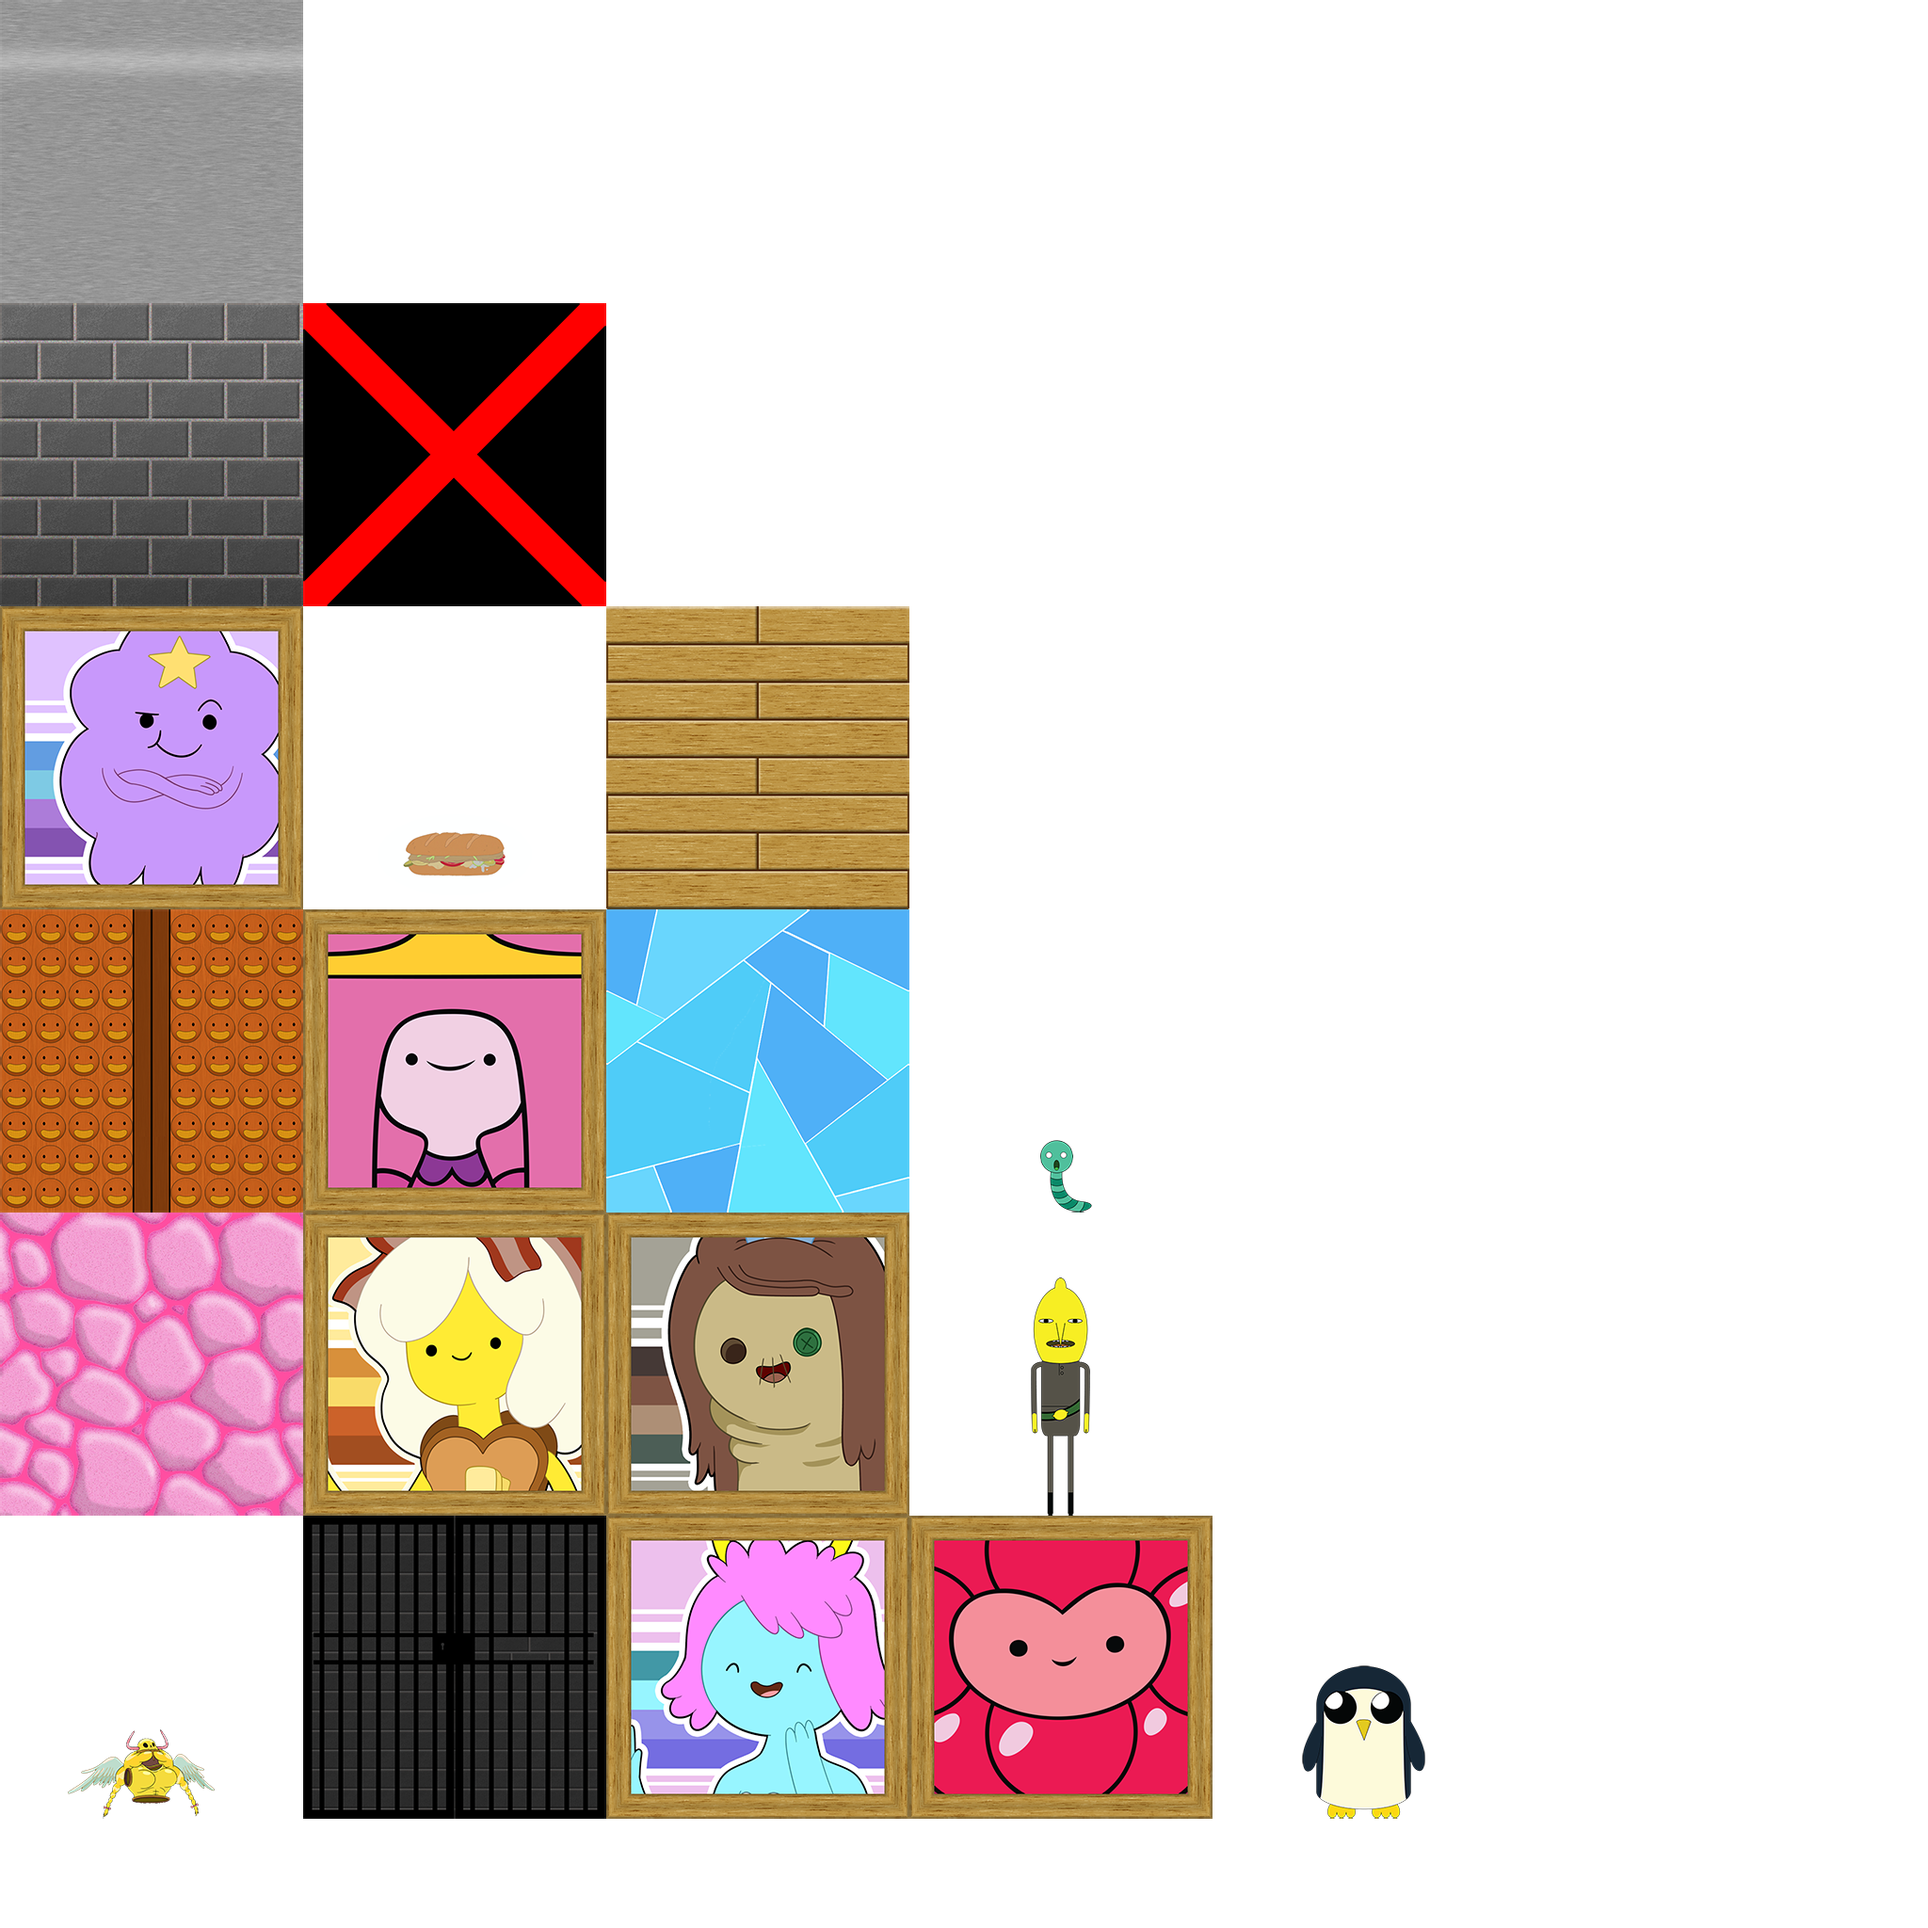
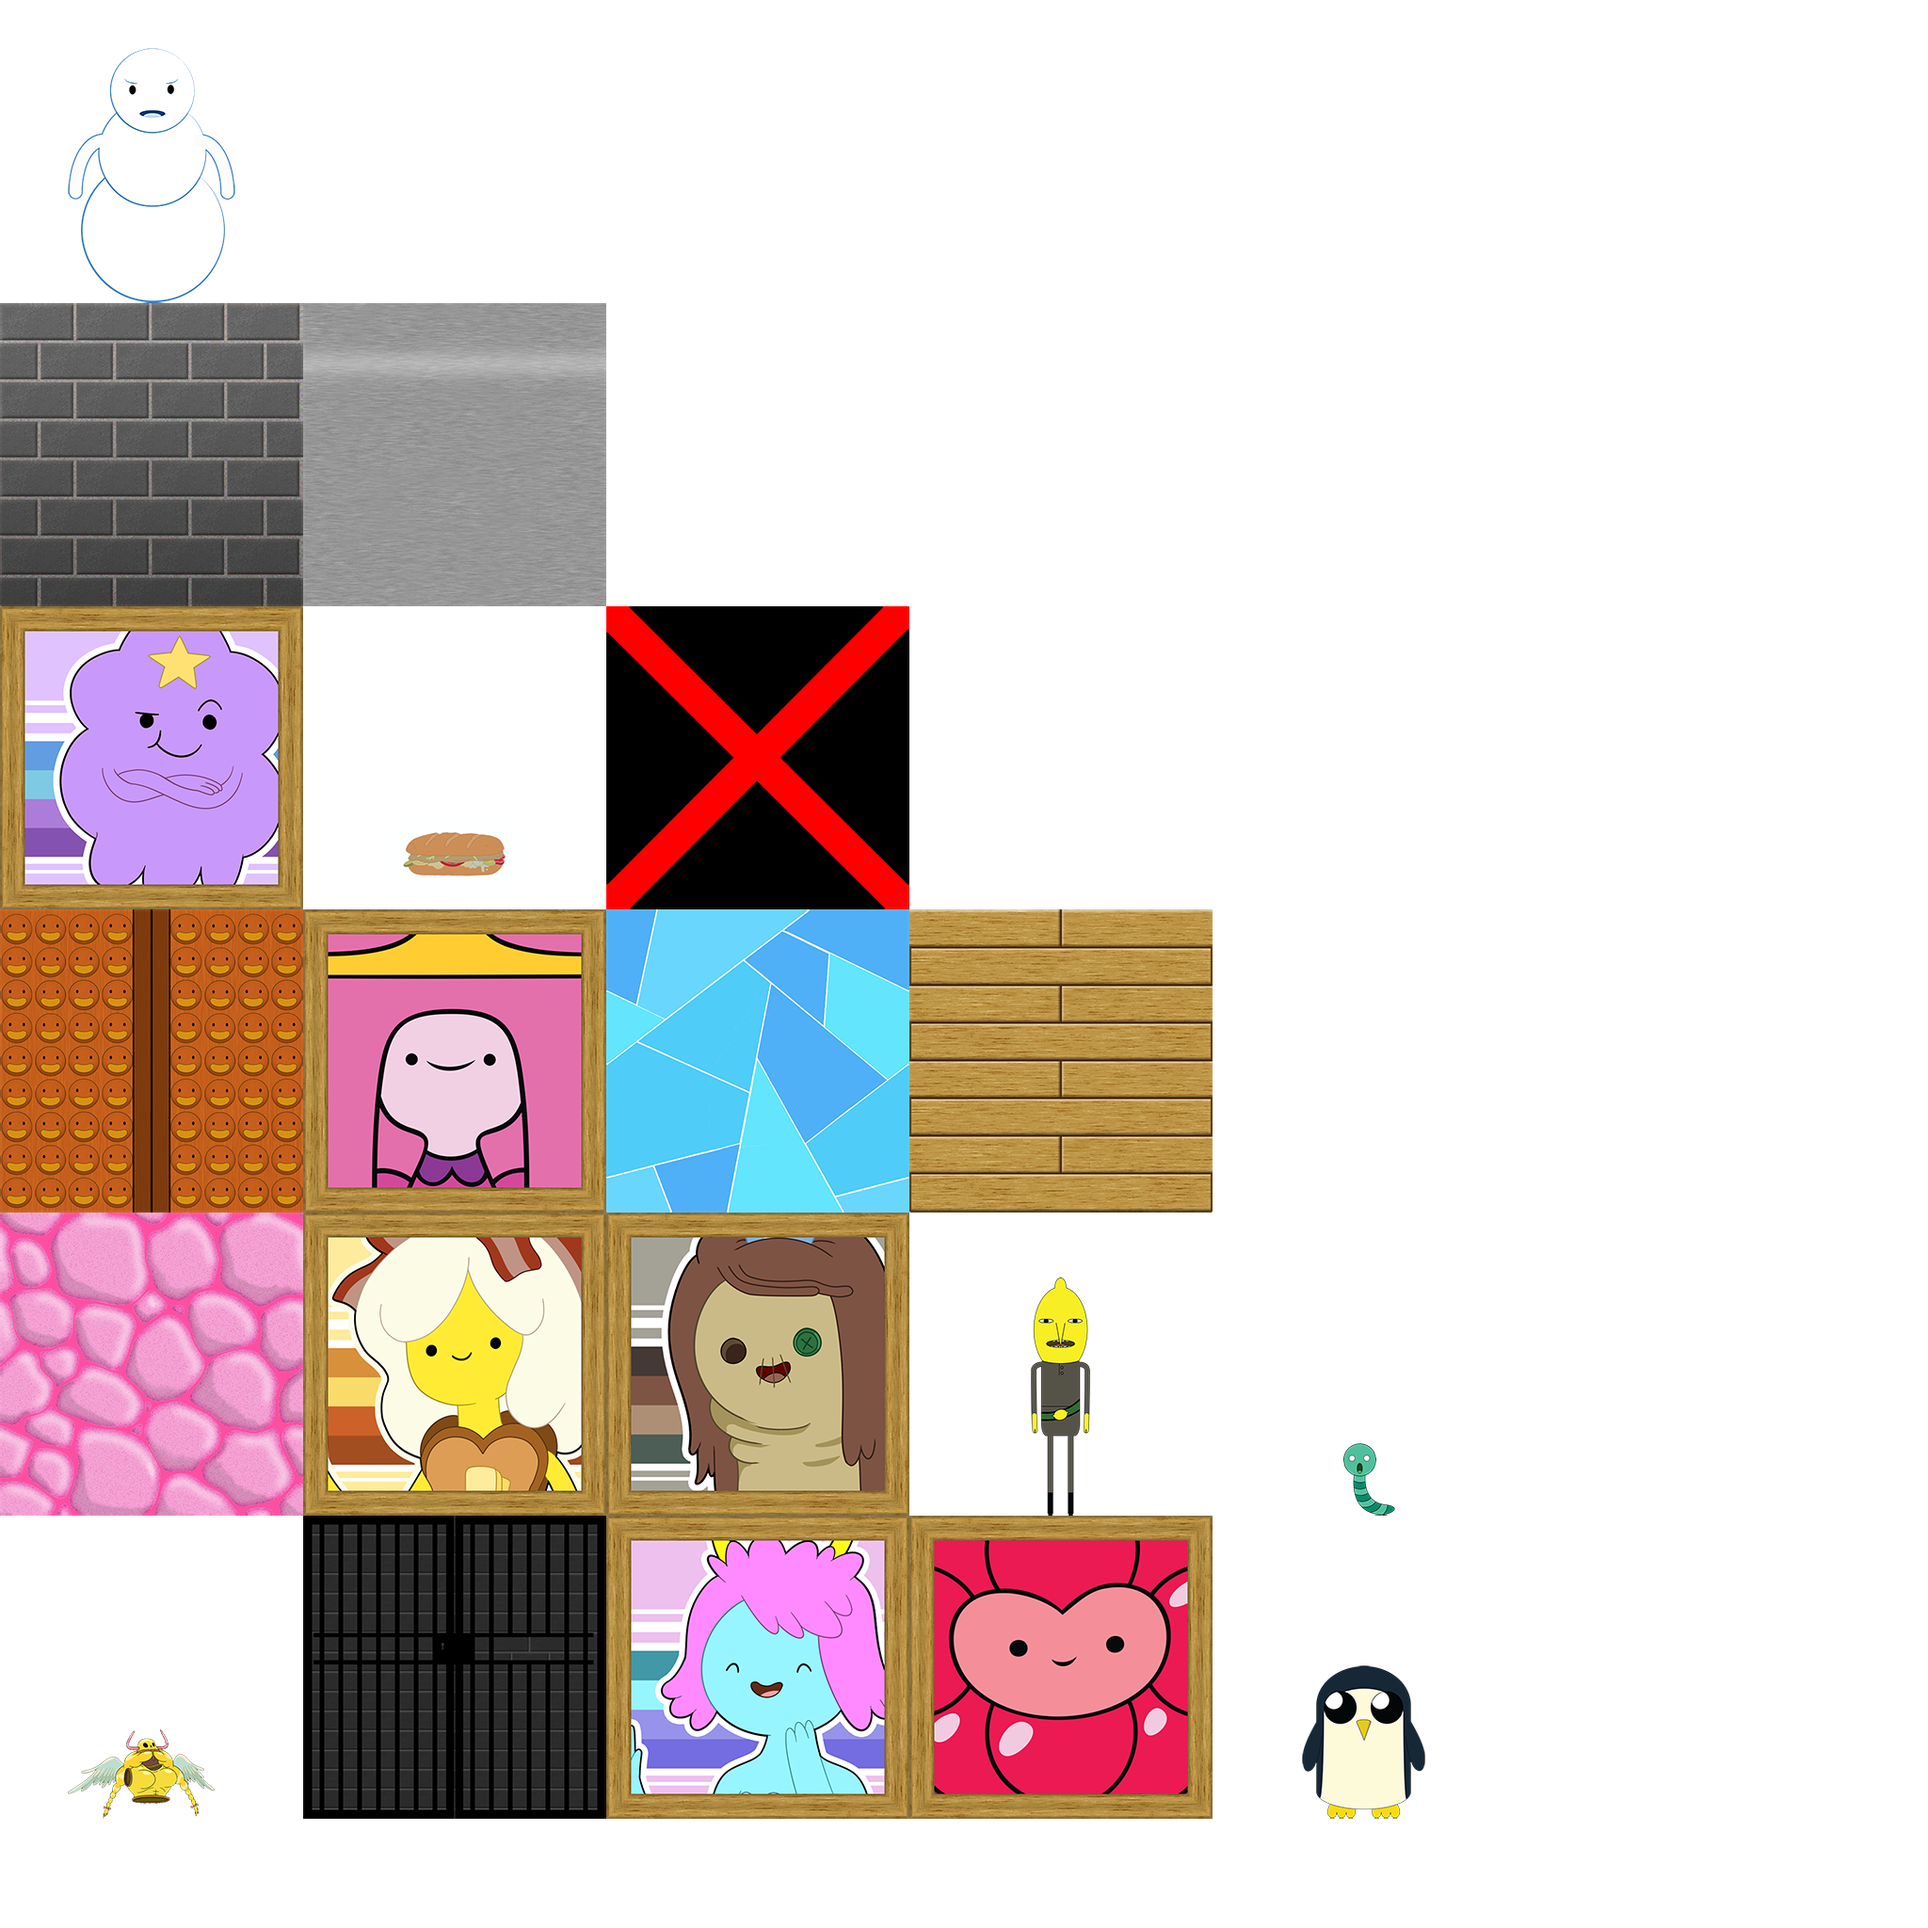
Updated guard/dog names and fixed the atlas and texture that was incomplete

diff --git a/deco2800.arcade.wl6/src/main/java/deco2800/arcade/wl6/DoodadList.java b/deco2800.arcade.wl6/src/main/java/deco2800/arcade/wl6/DoodadList.java
@@ -340,28 +340,28 @@ public class DoodadList {
                     new DoodadInfo(),
 
                     //108: Guard 1 (Standing)
-                    new DoodadInfo(true, "guard", 0, 0, 0, 1, EnemyType.GUARD, 0, DIRS.UP),  // FIXME Not complete
+                    new DoodadInfo(true, "snowman", 0, 0, 0, 1, EnemyType.GUARD, 0, DIRS.UP),  // FIXME Not complete
 
                     //109: Guard 1 (Standing)
-                    new DoodadInfo(true, "guard", 0, 0, 0, 1, EnemyType.GUARD, 0, DIRS.UP),  // FIXME Not complete
+                    new DoodadInfo(true, "snowman", 0, 0, 0, 1, EnemyType.GUARD, 0, DIRS.UP),  // FIXME Not complete
 
                     //110: Guard 1 (Standing)
-                    new DoodadInfo(true, "guard", 0, 0, 0, 1, EnemyType.GUARD, 0, DIRS.UP),  // FIXME Not complete
+                    new DoodadInfo(true, "snowman", 0, 0, 0, 1, EnemyType.GUARD, 0, DIRS.UP),  // FIXME Not complete
 
                     //111: Guard 1 (Standing)
-                    new DoodadInfo(true, "guard", 0, 0, 0, 1, EnemyType.GUARD, 0, DIRS.UP),  // FIXME Not complete
+                    new DoodadInfo(true, "snowman", 0, 0, 0, 1, EnemyType.GUARD, 0, DIRS.UP),  // FIXME Not complete
 
                     //112: Guard 1 (Moving)
-                    new DoodadInfo(true, "guard", 0, 0, 0, 1, EnemyType.GUARD, 0, DIRS.UP),  // FIXME Not complete
+                    new DoodadInfo(true, "snowman", 0, 0, 0, 1, EnemyType.GUARD, 0, DIRS.UP),  // FIXME Not complete
 
                     //113: Guard 1 (Moving)
-                    new DoodadInfo(true, "guard", 0, 0, 0, 1, EnemyType.GUARD, 0, DIRS.UP),  // FIXME Not complete
+                    new DoodadInfo(true, "snowman", 0, 0, 0, 1, EnemyType.GUARD, 0, DIRS.UP),  // FIXME Not complete
 
                     //114: Guard 1 (Moving)
-                    new DoodadInfo(true, "guard", 0, 0, 0, 1, EnemyType.GUARD, 0, DIRS.UP),  // FIXME Not complete
+                    new DoodadInfo(true, "snowman", 0, 0, 0, 1, EnemyType.GUARD, 0, DIRS.UP),  // FIXME Not complete
 
                     //115: Guard 1 (Moving)
-                    new DoodadInfo(true, "guard", 0, 0, 0, 1, EnemyType.GUARD, 0, DIRS.UP),  // FIXME Not complete
+                    new DoodadInfo(true, "snowman", 0, 0, 0, 1, EnemyType.GUARD, 0, DIRS.UP),  // FIXME Not complete
 
                     //116: nothing
                     new DoodadInfo(),
@@ -430,16 +430,16 @@ public class DoodadList {
                     new DoodadInfo(),
 
                     //138: Dog 1 (Moving)
-                    new DoodadInfo(true, "dog", 0, 0, 0, 1, EnemyType.DOG, 0, DIRS.UP),  // FIXME Not complete
+                    new DoodadInfo(true, "penguin", 0, 0, 0, 1, EnemyType.DOG, 0, DIRS.UP),  // FIXME Not complete
 
                     //139: Dog 1 (Moving)
-                    new DoodadInfo(true, "dog", 0, 0, 0, 1, EnemyType.DOG, 0, DIRS.UP),  // FIXME Not complete
+                    new DoodadInfo(true, "penguin", 0, 0, 0, 1, EnemyType.DOG, 0, DIRS.UP),  // FIXME Not complete
 
                     //140: Dog 1 (Moving)
-                    new DoodadInfo(true, "dog", 0, 0, 0, 1, EnemyType.DOG, 0, DIRS.UP),  // FIXME Not complete
+                    new DoodadInfo(true, "penguin", 0, 0, 0, 1, EnemyType.DOG, 0, DIRS.UP),  // FIXME Not complete
 
                     //141: Dog 1 (Moving)
-                    new DoodadInfo(true, "dog", 0, 0, 0, 1, EnemyType.DOG, 0, DIRS.UP),  // FIXME Not complete
+                    new DoodadInfo(true, "penguin", 0, 0, 0, 1, EnemyType.DOG, 0, DIRS.UP),  // FIXME Not complete
 
                     //142: nothing
                     new DoodadInfo(),
@@ -448,28 +448,28 @@ public class DoodadList {
                     new DoodadInfo(),
 
                     //144: Guard 3 (Standing)
-                    new DoodadInfo(true, "guard", 0, 0, 0, 3, EnemyType.GUARD, 0, DIRS.UP),  // FIXME Not complete
+                    new DoodadInfo(true, "snowman", 0, 0, 0, 3, EnemyType.GUARD, 0, DIRS.UP),  // FIXME Not complete
 
                     //145: Guard 3 (Standing)
-                    new DoodadInfo(true, "guard", 0, 0, 0, 3, EnemyType.GUARD, 0, DIRS.UP),  // FIXME Not complete
+                    new DoodadInfo(true, "snowman", 0, 0, 0, 3, EnemyType.GUARD, 0, DIRS.UP),  // FIXME Not complete
 
                     //146: Guard 3 (Standing)
-                    new DoodadInfo(true, "guard", 0, 0, 0, 3, EnemyType.GUARD, 0, DIRS.UP),  // FIXME Not complete
+                    new DoodadInfo(true, "snowman", 0, 0, 0, 3, EnemyType.GUARD, 0, DIRS.UP),  // FIXME Not complete
 
                     //147: Guard 3 (Standing)
-                    new DoodadInfo(true, "guard", 0, 0, 0, 3, EnemyType.GUARD, 0, DIRS.UP),  // FIXME Not complete
+                    new DoodadInfo(true, "snowman", 0, 0, 0, 3, EnemyType.GUARD, 0, DIRS.UP),  // FIXME Not complete
 
                     //148: Guard 3 (Moving)
-                    new DoodadInfo(true, "guard", 0, 0, 0, 3, EnemyType.GUARD, 0, DIRS.UP),  // FIXME Not complete
+                    new DoodadInfo(true, "snowman", 0, 0, 0, 3, EnemyType.GUARD, 0, DIRS.UP),  // FIXME Not complete
 
                     //149: Guard 3 (Moving)
-                    new DoodadInfo(true, "guard", 0, 0, 0, 3, EnemyType.GUARD, 0, DIRS.UP),  // FIXME Not complete
+                    new DoodadInfo(true, "snowman", 0, 0, 0, 3, EnemyType.GUARD, 0, DIRS.UP),  // FIXME Not complete
 
                     //150: Guard 3 (Moving)
-                    new DoodadInfo(true, "guard", 0, 0, 0, 3, EnemyType.GUARD, 0, DIRS.UP),  // FIXME Not complete
+                    new DoodadInfo(true, "snowman", 0, 0, 0, 3, EnemyType.GUARD, 0, DIRS.UP),  // FIXME Not complete
 
                     //151: Guard 3 (Moving)
-                    new DoodadInfo(true, "guard", 0, 0, 0, 3, EnemyType.GUARD, 0, DIRS.UP),  // FIXME Not complete
+                    new DoodadInfo(true, "snowman", 0, 0, 0, 3, EnemyType.GUARD, 0, DIRS.UP),  // FIXME Not complete
 
                     //152: nothing
                     new DoodadInfo(),
@@ -538,16 +538,16 @@ public class DoodadList {
                     new DoodadInfo(),
 
                     //174: Dog 3 (Moving)
-                    new DoodadInfo(true, "dog", 0, 0, 0, 3, EnemyType.GUARD, 0, DIRS.UP),  // FIXME Not complete
+                    new DoodadInfo(true, "penguin", 0, 0, 0, 3, EnemyType.GUARD, 0, DIRS.UP),  // FIXME Not complete
 
                     //175: Dog 3 (Moving)
-                    new DoodadInfo(true, "dog", 0, 0, 0, 3, EnemyType.GUARD, 0, DIRS.UP),  // FIXME Not complete
+                    new DoodadInfo(true, "snowman", 0, 0, 0, 3, EnemyType.GUARD, 0, DIRS.UP),  // FIXME Not complete
 
                     //176: Dog 3 (Moving)
-                    new DoodadInfo(true, "dog", 0, 0, 0, 3, EnemyType.GUARD, 0, DIRS.UP),  // FIXME Not complete
+                    new DoodadInfo(true, "snowman", 0, 0, 0, 3, EnemyType.GUARD, 0, DIRS.UP),  // FIXME Not complete
 
                     //177: Dog 3 (Moving)
-                    new DoodadInfo(true, "dog", 0, 0, 0, 3, EnemyType.GUARD, 0, DIRS.UP),  // FIXME Not complete
+                    new DoodadInfo(true, "snowman", 0, 0, 0, 3, EnemyType.GUARD, 0, DIRS.UP),  // FIXME Not complete
 
                     //178: nothing
                     new DoodadInfo(),
@@ -556,28 +556,28 @@ public class DoodadList {
                     new DoodadInfo(),
 
                     //180: Guard 4 (Standing)
-                    new DoodadInfo(true, "guard", 0, 0, 0, 4, EnemyType.GUARD, 0, DIRS.UP),  // FIXME Not complete
+                    new DoodadInfo(true, "snowman", 0, 0, 0, 4, EnemyType.GUARD, 0, DIRS.UP),  // FIXME Not complete
 
                     //181: Guard 4 (Standing)
-                    new DoodadInfo(true, "guard", 0, 0, 0, 4, EnemyType.GUARD, 0, DIRS.UP),  // FIXME Not complete
+                    new DoodadInfo(true, "snowman", 0, 0, 0, 4, EnemyType.GUARD, 0, DIRS.UP),  // FIXME Not complete
 
                     //182: Guard 4 (Standing)
-                    new DoodadInfo(true, "guard", 0, 0, 0, 4, EnemyType.GUARD, 0, DIRS.UP),  // FIXME Not complete
+                    new DoodadInfo(true, "snowman", 0, 0, 0, 4, EnemyType.GUARD, 0, DIRS.UP),  // FIXME Not complete
 
                     //183: Guard 4 (Standing)
-                    new DoodadInfo(true, "guard", 0, 0, 0, 4, EnemyType.GUARD, 0, DIRS.UP),  // FIXME Not complete
+                    new DoodadInfo(true, "snowman", 0, 0, 0, 4, EnemyType.GUARD, 0, DIRS.UP),  // FIXME Not complete
 
                     //184: Guard 4 (Moving)
-                    new DoodadInfo(true, "guard", 0, 0, 0, 4, EnemyType.GUARD, 0, DIRS.UP),  // FIXME Not complete
+                    new DoodadInfo(true, "snowman", 0, 0, 0, 4, EnemyType.GUARD, 0, DIRS.UP),  // FIXME Not complete
 
                     //185: Guard 4 (Moving)
-                    new DoodadInfo(true, "guard", 0, 0, 0, 4, EnemyType.GUARD, 0, DIRS.UP),  // FIXME Not complete
+                    new DoodadInfo(true, "snowman", 0, 0, 0, 4, EnemyType.GUARD, 0, DIRS.UP),  // FIXME Not complete
 
                     //186: Guard 4 (Moving)
-                    new DoodadInfo(true, "guard", 0, 0, 0, 4, EnemyType.GUARD, 0, DIRS.UP),  // FIXME Not complete
+                    new DoodadInfo(true, "snowman", 0, 0, 0, 4, EnemyType.GUARD, 0, DIRS.UP),  // FIXME Not complete
 
                     //187: Guard 4 (Moving)
-                    new DoodadInfo(true, "guard", 0, 0, 0, 4, EnemyType.GUARD, 0, DIRS.UP),  // FIXME Not complete
+                    new DoodadInfo(true, "snowman", 0, 0, 0, 4, EnemyType.GUARD, 0, DIRS.UP),  // FIXME Not complete
 
                     //188: nothing
                     new DoodadInfo(),
@@ -646,16 +646,16 @@ public class DoodadList {
                     new DoodadInfo(),
 
                     //210: Dog 4 (Moving)
-                    new DoodadInfo(true, "dog", 0, 0, 0, 4, EnemyType.GUARD, 0, DIRS.UP),  // FIXME Not complete
+                    new DoodadInfo(true, "penguin", 0, 0, 0, 4, EnemyType.GUARD, 0, DIRS.UP),  // FIXME Not complete
 
                     //211: Dog 4 (Moving)
-                    new DoodadInfo(true, "dog", 0, 0, 0, 4, EnemyType.GUARD, 0, DIRS.UP),  // FIXME Not complete
+                    new DoodadInfo(true, "penguin", 0, 0, 0, 4, EnemyType.GUARD, 0, DIRS.UP),  // FIXME Not complete
 
                     //212: Dog 4 (Moving)
-                    new DoodadInfo(true, "dog", 0, 0, 0, 4, EnemyType.GUARD, 0, DIRS.UP),  // FIXME Not complete
+                    new DoodadInfo(true, "penguin", 0, 0, 0, 4, EnemyType.GUARD, 0, DIRS.UP),  // FIXME Not complete
 
                     //213: Dog 4 (Moving)
-                    new DoodadInfo(true, "dog", 0, 0, 0, 4, EnemyType.GUARD, 0, DIRS.UP),  // FIXME Not complete
+                    new DoodadInfo(true, "penguin", 0, 0, 0, 4, EnemyType.GUARD, 0, DIRS.UP),  // FIXME Not complete
 
                     //214: Hans Grosse
                     new DoodadInfo(),
